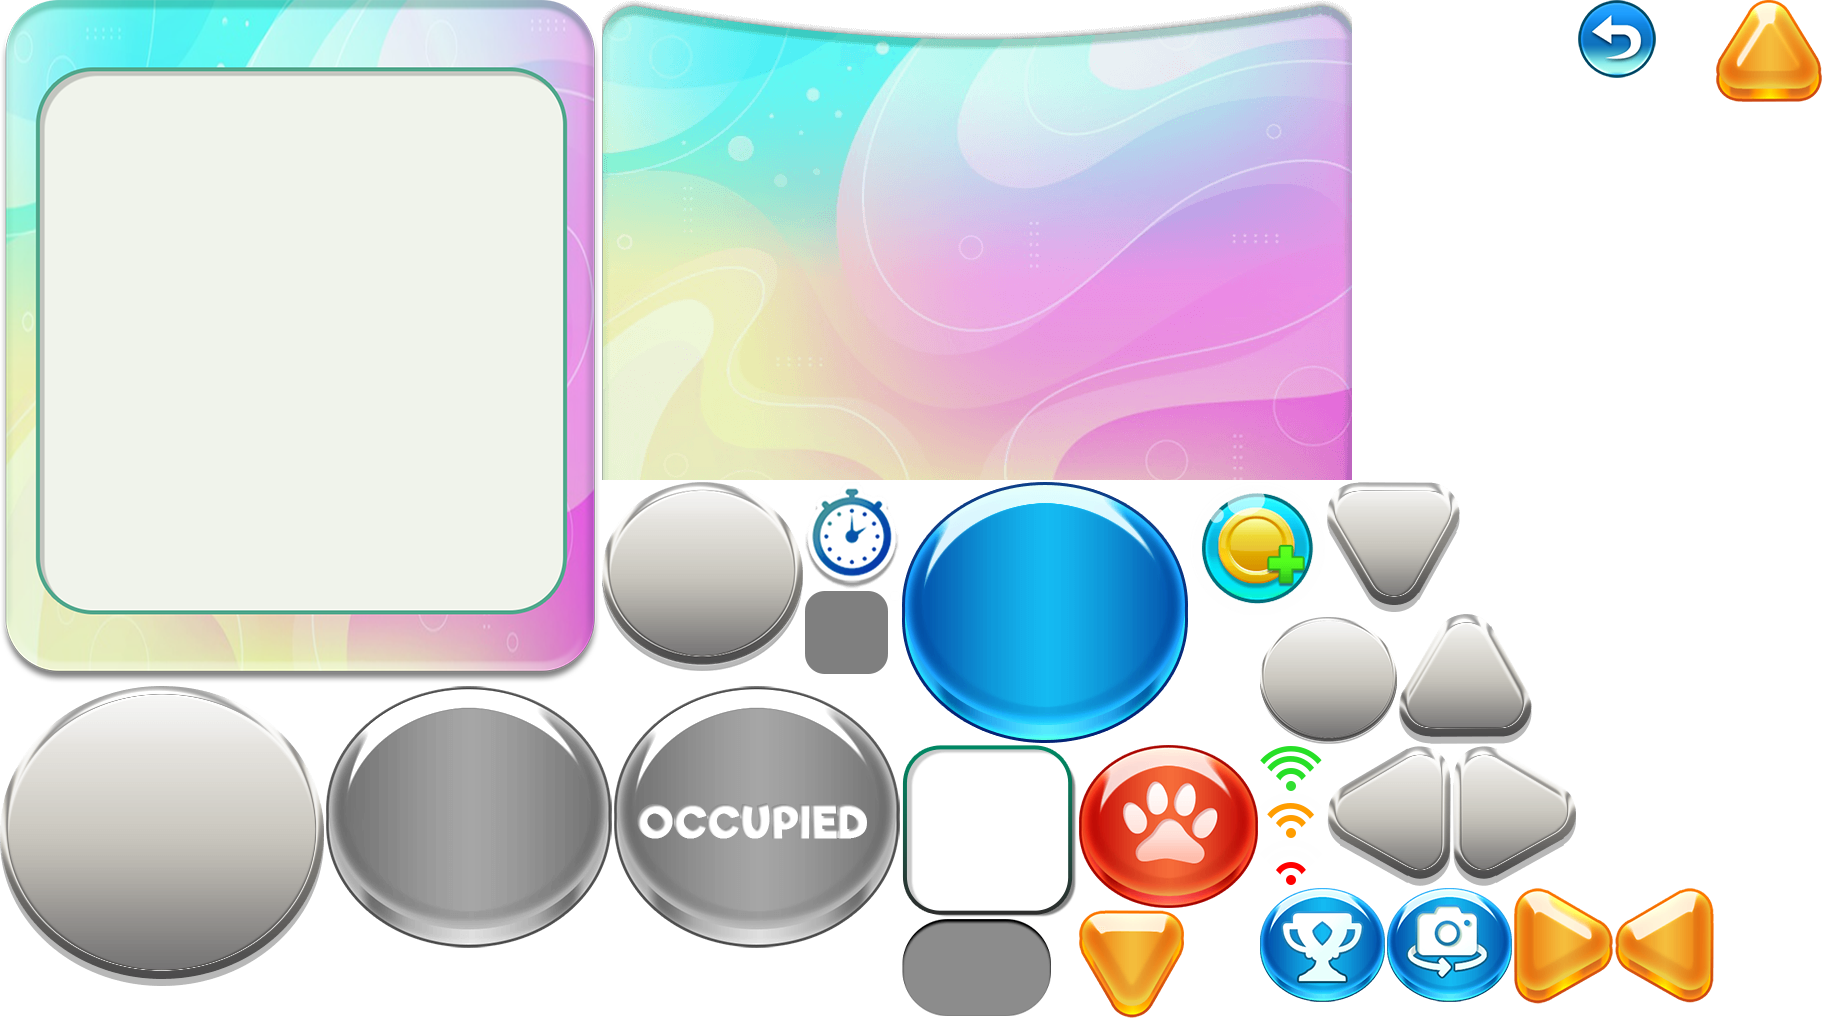
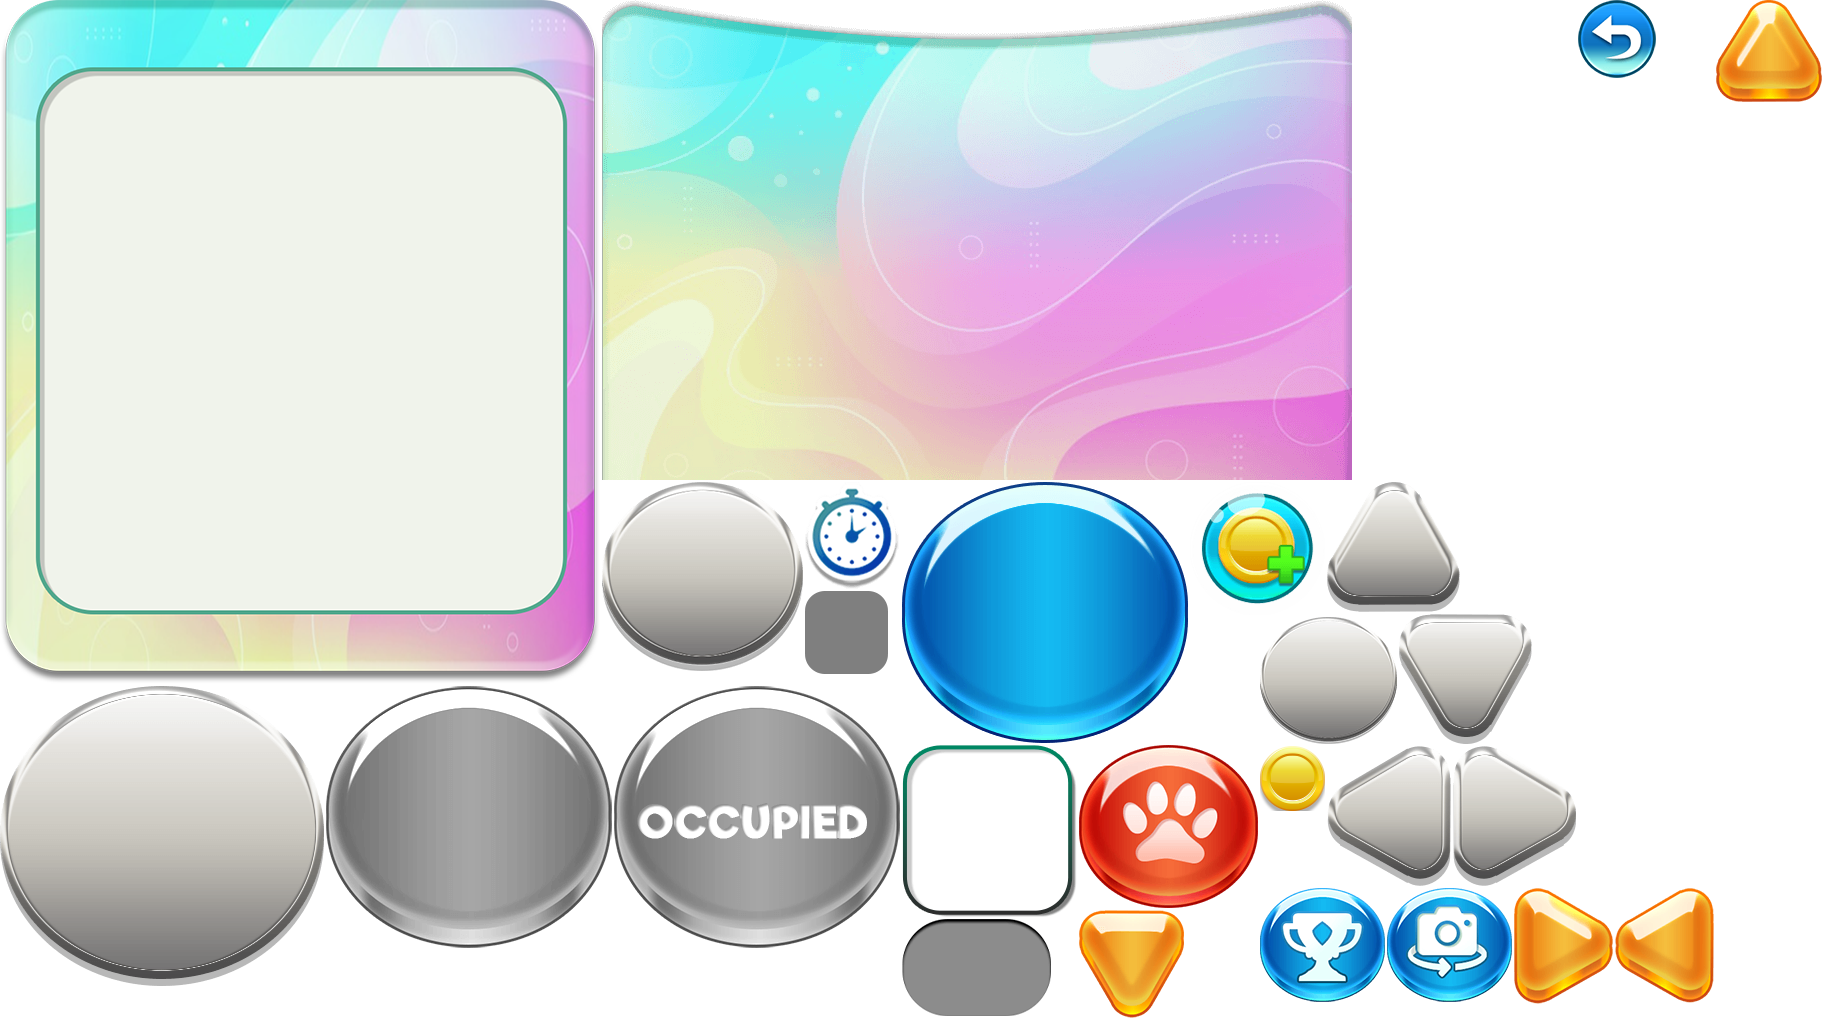
delete wyfi

Changed region(s): [[0.7188, 0.4559, 0.8438, 0.7294], [0.6875, 0.7294, 0.75, 0.8206]]

diff --git a/src/pages/video/control-bar/play-button/play-button.component.ts b/src/pages/video/control-bar/play-button/play-button.component.ts
@@ -1,13 +1,15 @@
+import { BitmapData } from './../../../../basicUI/image/bitmap-data';
+import { TextData } from '../../../../service/gameData/TextData';
 /*
  * @Description: 
  * @version: 1.0
  * @Author: Wayne Yu
  * @Date: 2021-10-25 11:43:00
  * @LastEditors: Wayne Yu
- * @LastEditTime: 2021-10-25 11:49:04
+ * @LastEditTime: 2021-10-25 13:35:19
  */
 import { ImageScaleButtonComponent } from '../../../../basicUI/basic-ui.module';
-import { Component } from '@angular/core';
+import { Component, SimpleChanges, Input } from '@angular/core';
 
 @Component({
   selector: 'app-play-button',
@@ -16,8 +18,29 @@ import { Component } from '@angular/core';
 })
 export class PlayButtonComponent extends ImageScaleButtonComponent {
 
+  playText!: TextData;
+  playString: string = "";
+
+  @Input() coinIcon!: BitmapData;
+
   constructor() {
     super();
   }
 
+  ngOnChanges(changes: SimpleChanges): void {
+    if( changes.imgData || changes.buttonIcon ) super.ngOnChanges( changes );
+
+    if( this.imgData ){
+      this.iconStyle = `
+          background-image: url("${this.buttonIcon.url}");
+          width: ${this.buttonIcon.w}px;
+          height: ${this.buttonIcon.h}px;
+          background-position: -${this.buttonIcon.x}px -${this.buttonIcon.y}px;
+          left: ${this.imgData.w * 0.5 + this.buttonIcon.left}px;
+          top: ${this.imgData.h * 0.5 + this.buttonIcon.top}px;
+          margin-left: ${-this.buttonIcon.w * 0.5}px;
+          margin-top: ${-this.buttonIcon.h * 0.5}px;
+        `
+    }
+  }
 }

diff --git a/src/pages/video/video/video.component.ts b/src/pages/video/video/video.component.ts
@@ -12,7 +12,6 @@ export class VideoComponent extends MainPage {
   data!: GoodsData;
 
   backToLobbyBtn!: BitmapData;
-  wyfiIcon!: BitmapData;
 
   playing: boolean = false;
 
@@ -49,7 +48,6 @@ export class VideoComponent extends MainPage {
 
   initUI() {
     this.backToLobbyBtn = this.textureData.getTexture( "btn_return", 29, 133 );
-    this.wyfiIcon = this.textureData.getTexture( "icon_signal_04", 655, 150 );
 
     let obStr: string = GM.interfaceString;
     let dataObject: string = "json=" + JSON.stringify({"good_id":this.data.good_id});
@@ -172,20 +170,17 @@ export class VideoComponent extends MainPage {
       if( this.playing ) this.stopRecord();
       this.playing = false;
       this.userHeadIcon = "";
-      this.wyfiIcon = this.textureData.getTexture( "icon_signal_04", 655, 150 );
     }
     else if( data.room_state == 1 ){
       if( data.userid == User.instance.userData.id ){ // I am playing
         if( !this.playing ) this.startRecord();
         this.playing = true;
         this.userHeadIcon = User.instance.headIcon;
-        this.wyfiIcon = this.textureData.getTexture( "icon_signal_02", 655, 150 );
       }
       else{
         if( this.playing ) this.stopRecord();
         this.playing = false; // other's playing
         if( this.playingUser == null ) this.playingUser = { id: data.userid };
-        this.wyfiIcon = this.textureData.getTexture( "icon_signal_03", 655, 150 );
       }
     }
   }

diff --git a/src/pages/video/control-bar/control-bar.component.ts b/src/pages/video/control-bar/control-bar.component.ts
@@ -5,7 +5,7 @@ import { SocketIO, ControlDirection, Trigger, GoodsData } from '../../../service
  * @Author: Wayne Yu
  * @Date: 2021-06-10 16:30:24
  * @LastEditors: Wayne Yu
- * @LastEditTime: 2021-10-25 11:38:15
+ * @LastEditTime: 2021-10-25 13:46:20
  */
 import { Component, EventEmitter, Input, Output, SimpleChanges } from '@angular/core';
 import { UIFromParent, Rectangle, BitmapData } from '../../../basicUI/basic-ui.module';
@@ -29,6 +29,7 @@ export class ControlBarComponent extends UIFromParent{
   addCoin!: BitmapData;
   historyBg!: BitmapData;
   historyBtn!: BitmapData;
+  coinIcon!: BitmapData;
 
   cameraBg!: BitmapData;
   cameraIcon!: BitmapData;
@@ -77,7 +78,8 @@ export class ControlBarComponent extends UIFromParent{
     this.cameraIcon = this.textureData.getTexture( "btn_camera", 0, -4 );
 
     this.historyBg = this.textureData.getTexture( "btn_camera_bg", 590, 305 );
-    this.historyBtn = this.textureData.getTexture( "btn_history", 0, -4 );
+    this.historyBtn = this.textureData.getTexture( "btn_history"  );
+    this.coinIcon = this.textureData.getTexture( "coin", 90, 158 );
 
     this.occupiedBg = this.textureData.getTexture( "btn_play_bg", 220, 80 );
     this.occupiedIcon = this.textureData.getTexture( "btn_occupied", 0, -3 );

diff --git a/src/pages/video/control-bar/control-bar.component.html b/src/pages/video/control-bar/control-bar.component.html
@@ -4,7 +4,7 @@
  * @Author: Wayne Yu
  * @Date: 2021-06-10 16:30:24
  * @LastEditors: Wayne Yu
- * @LastEditTime: 2021-10-25 11:42:43
+ * @LastEditTime: 2021-10-25 13:42:43
 -->
 <div class="control_bar">
   <app-image [imgData]="controlBg"></app-image>
@@ -13,7 +13,7 @@
   <div *ngIf="!playing">
     <app-image-scale-button [imgData]="addCoin" (itemClick)="showOocPo()"></app-image-scale-button>
     <app-image-scale-button [imgData]="historyBg" [buttonIcon]="historyBtn"></app-image-scale-button>
-    <app-play-button [imgData]="playBtnBg" [buttonIcon]="playBtnIcon" (itemClick)="startPlay();"></app-play-button>
+    <app-play-button [imgData]="playBtnBg" [buttonIcon]="playBtnIcon" [coinIcon]="coinIcon" (itemClick)="startPlay();"></app-play-button>
     <app-image-scale-button [imgData]="occupiedBg" [buttonIcon]="occupiedIcon" [enabled]="false" *ngIf="occupied"></app-image-scale-button>
   </div>
   <div *ngIf="playing">

diff --git a/src/pages/video/control-bar/play-button/play-button.component.html b/src/pages/video/control-bar/play-button/play-button.component.html
@@ -4,9 +4,13 @@
  * @Author: Wayne Yu
  * @Date: 2021-10-25 11:43:00
  * @LastEditors: Wayne Yu
- * @LastEditTime: 2021-10-25 11:43:39
+ * @LastEditTime: 2021-10-25 13:34:03
 -->
 <div class="imgBtn" [attr.style]="imgStyle" (click)="onButtonClick($event)" (mousedown)="onDown($event)" (touchstart)="onDown($event)"
- (mouseup)="onUp($event)" (mouseout)="onUp($event)" (touchend)="onUp($event)" (touchcancel)="onUp($event)" #carousel>
-  <div class="noneSelect" [attr.style]="iconStyle"></div>
+ (mouseup)="onUp($event)" (mouseout)="onUp($event)" (touchend)="onUp($event)" (touchcancel)="onUp($event)">
+  <div class="innerContainer" #carousel>
+    <div class="noneSelect" [attr.style]="iconStyle"></div>
+    <app-popup-text-field [textData]="playText" [text]="playString"></app-popup-text-field>
+    <app-image [imgData]="coinIcon"></app-image>
+  </div>
 </div>

diff --git a/src/pages/video/video/video.component.html b/src/pages/video/video/video.component.html
@@ -4,15 +4,13 @@
  * @Author: Wayne Yu
  * @Date: 2021-05-26 16:46:50
  * @LastEditors: Wayne Yu
- * @LastEditTime: 2021-10-22 09:43:01
+ * @LastEditTime: 2021-10-25 13:50:01
 -->
 <div class="videoFrameContainer">
     <iframe src="assets/video/video.html" height="{{iframeHeight}}" id="videoFrame" class="videoFrame widthApp" scrolling="no"></iframe>
 </div>
 <app-head-bar></app-head-bar>
 <app-image-scale-button [imgData]="backToLobbyBtn" (itemClick)="backToLobby()"></app-image-scale-button>
-<div class="wyfi"></div>
-<app-image [imgData]="wyfiIcon"></app-image>
 <div class="playerHead"></div>
 <div class="playingUser">
     <img src="assets/default_head.png" width="60" height="60" *ngIf="userHeadIcon"/>

diff --git a/src/pages/video/video/video.component.css b/src/pages/video/video/video.component.css
@@ -5,23 +5,14 @@
 .videoFrame{
   border: 0px;
 }
-.wyfi{
-  left: 645px;
-  top: 130px;
-  width: 83px;
-  height: 83px;
-  -webkit-border-radius: 15px;
-  border-radius:15px;
-  background-color: black;
-  opacity: 0.7;
-}
 .playerHead{
   left: 645px;
   top: 220px;
   width: 83px;
   height: 153px;
-  -webkit-border-radius: 15px;
-  border-radius:15px;
+  -moz-border-radius: 25px;
+  -webkit-border-radius: 25px;
+  border-radius:25px;
   background-color: black;
   opacity: 0.7;
 }
@@ -31,6 +22,7 @@
   height: 60px;
   left: 655px;
   top: 235px;
+  -moz-border-radius: 10px;
   -webkit-border-radius: 10px;
   border-radius:10px;
 }

diff --git a/src/pages/video/control-bar/play-button/play-button.component.css b/src/pages/video/control-bar/play-button/play-button.component.css
@@ -1,3 +1,8 @@
 .imgBtn{
     cursor: pointer;
 }
+.innerContainer{
+    top: -2px;
+    width: 286px;
+    height: 261px;
+}
